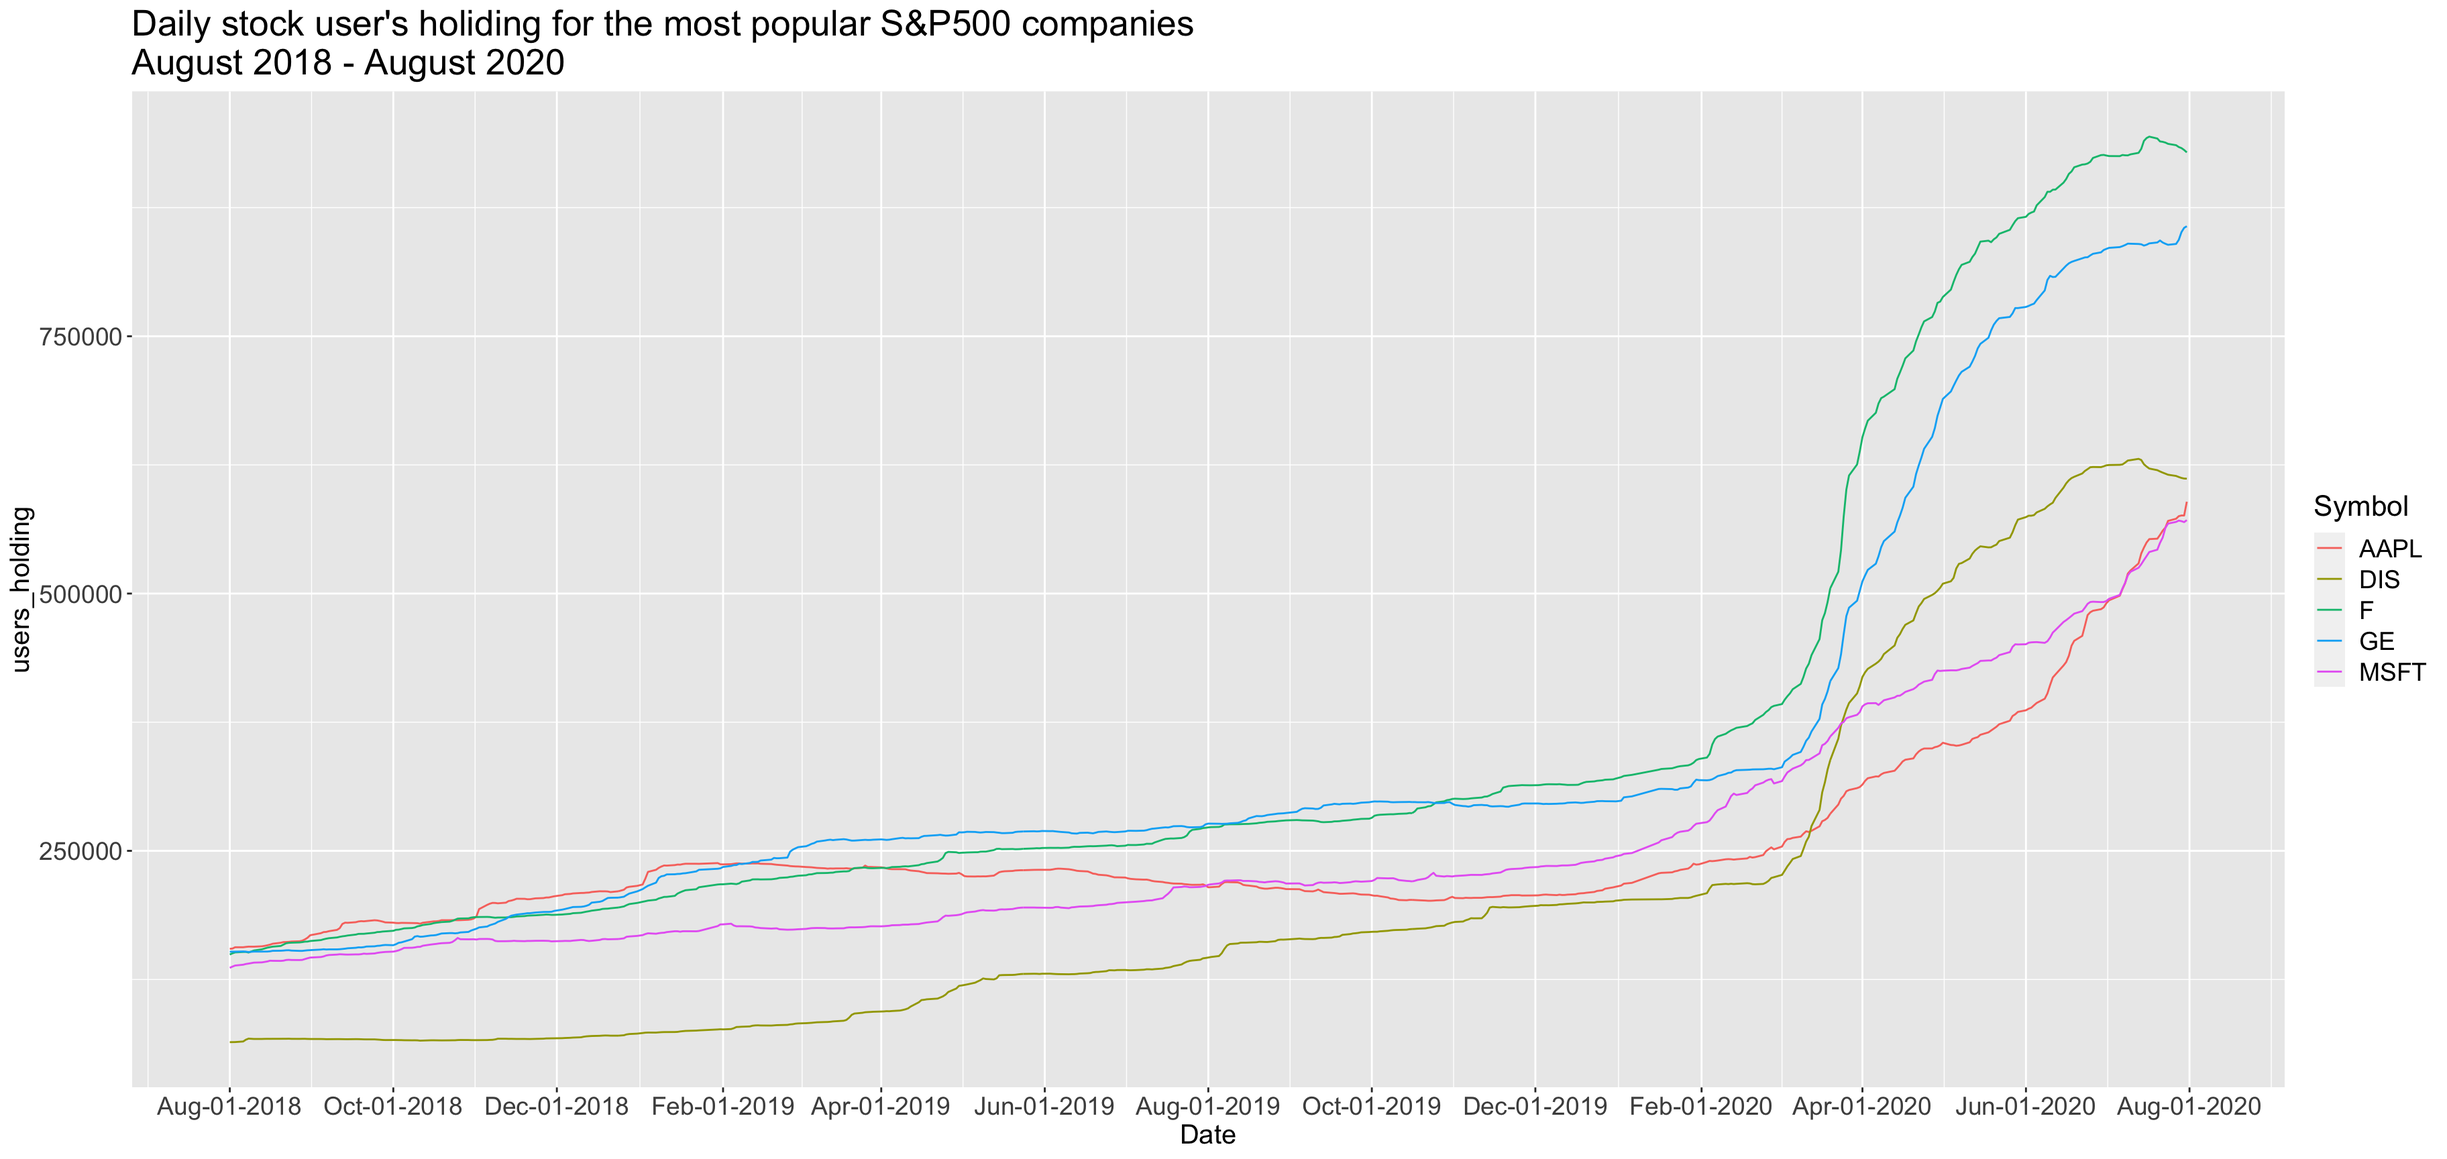
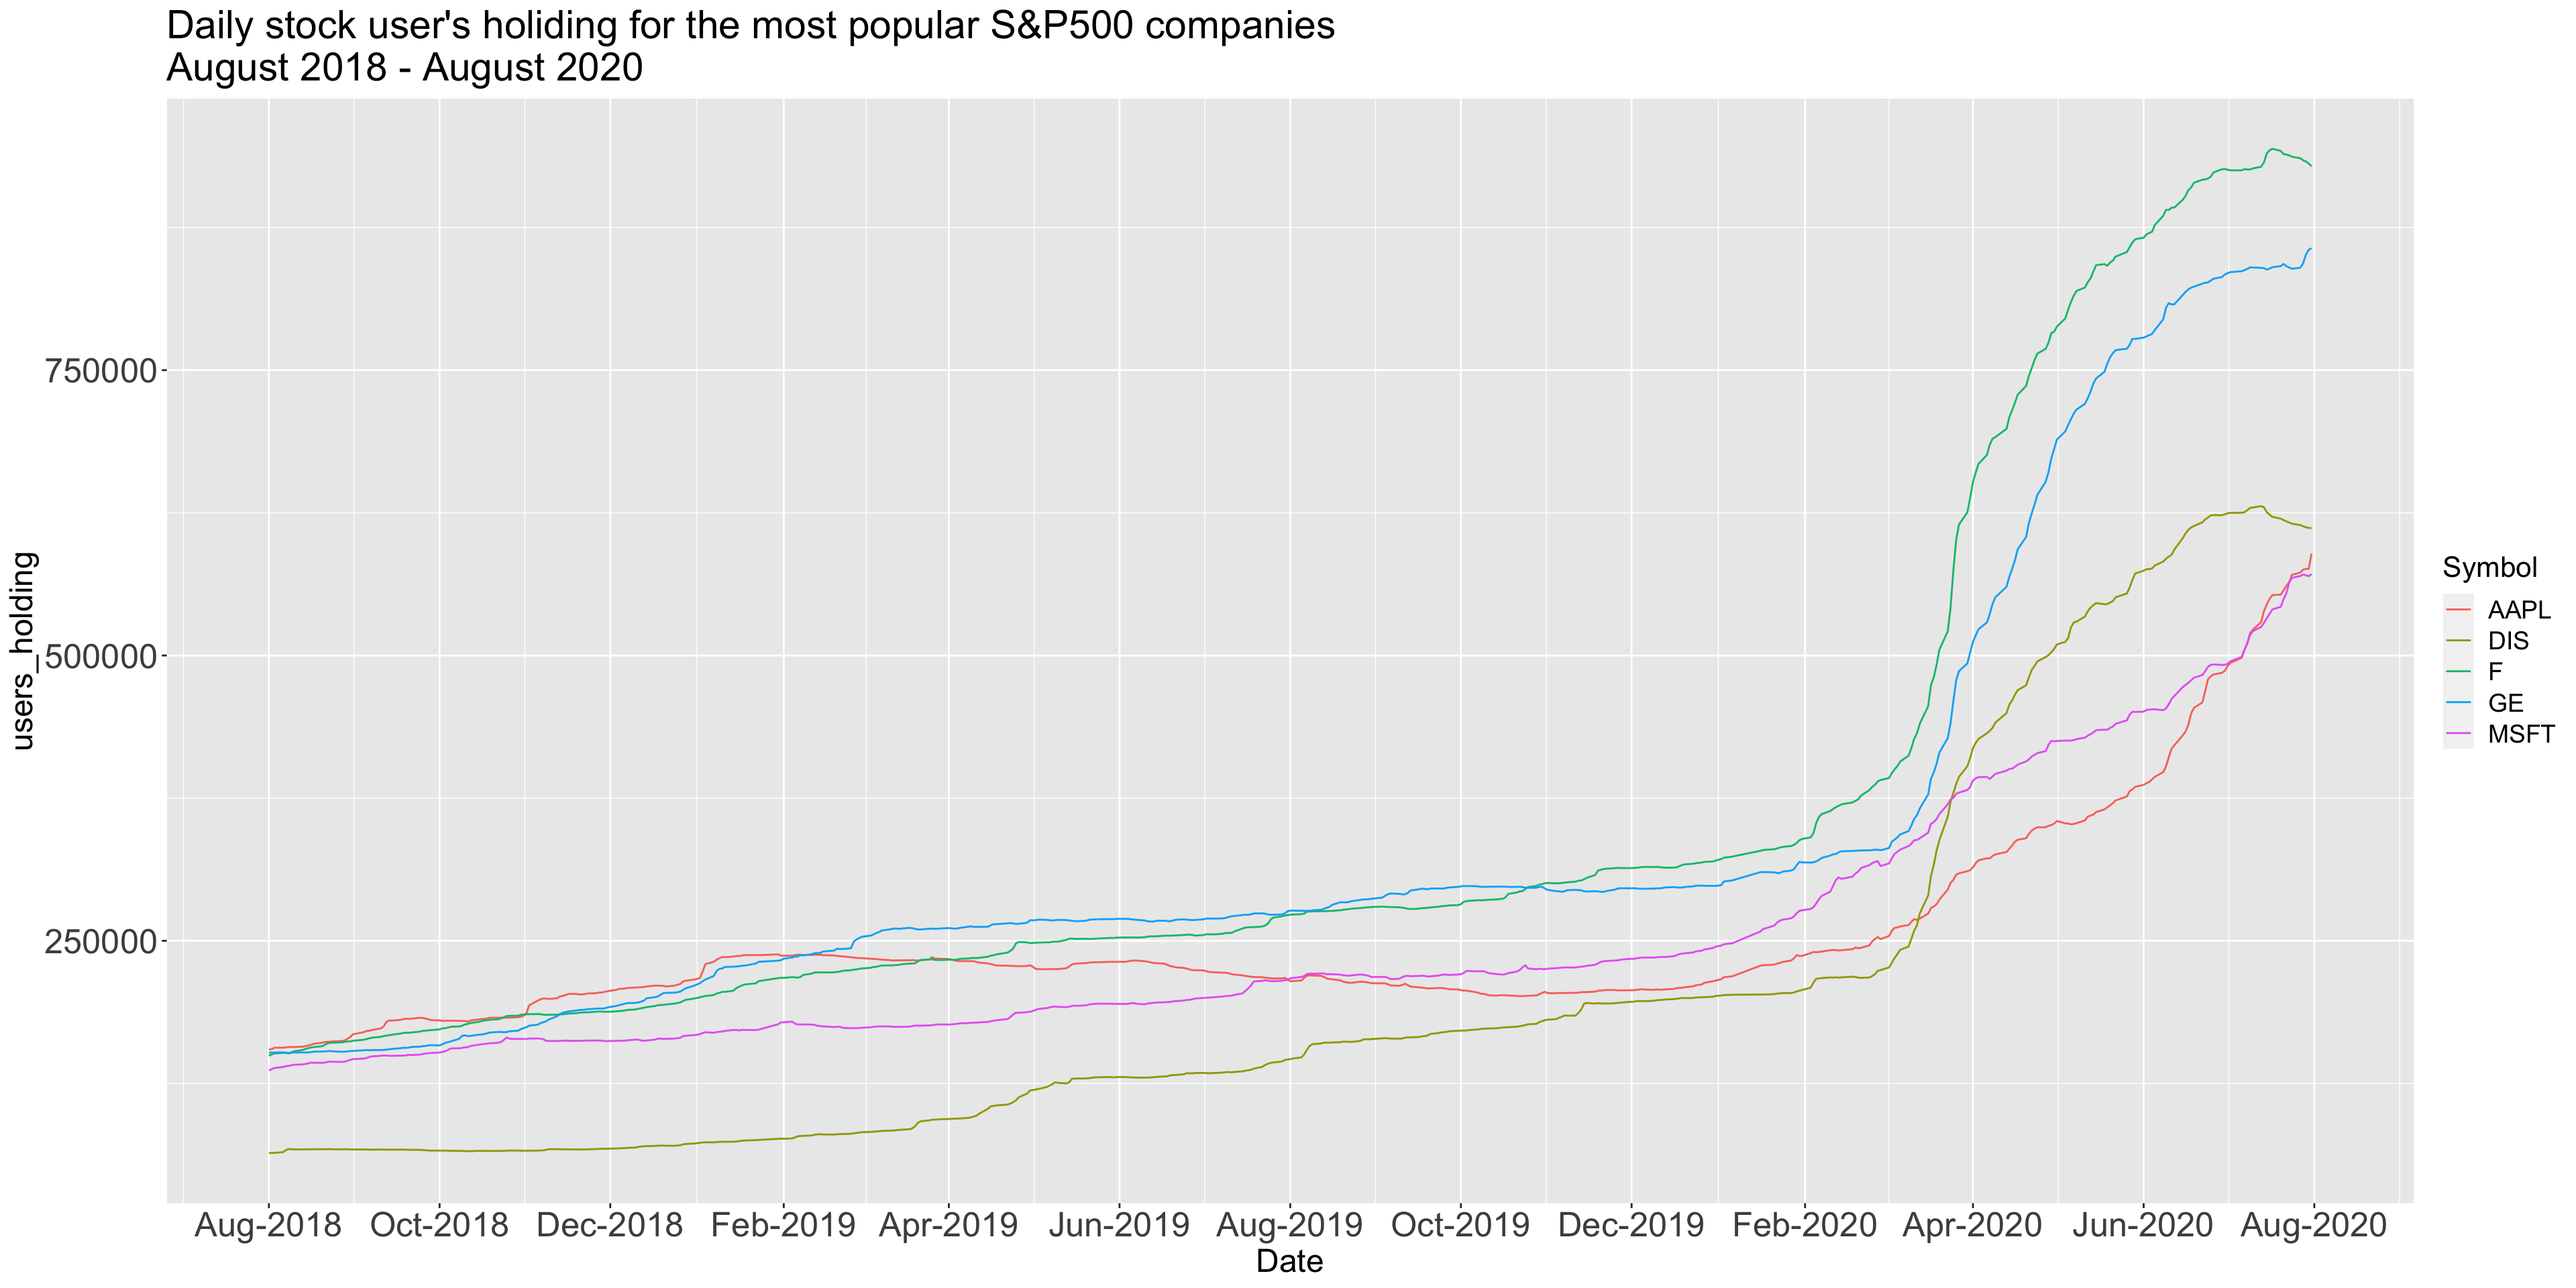
small changes to plot sizes

diff --git a/docs/results.html b/docs/results.html
@@ -113,10 +113,10 @@
 <p>###how ownership change by industry sectors over certain time period</p>
 <p><img src="finalproj_files/figure-html/qplot51-1.png" width="960" /></p>
 <p><img src="finalproj_files/figure-html/qplot56-1.png" width="576" /></p>
-<p><img src="finalproj_files/figure-html/qplot57-1.png" width="1824" /></p>
-<p><img src="finalproj_files/figure-html/qplot59-1.png" width="1824" /></p>
-<p><img src="finalproj_files/figure-html/qplot58-1.png" width="1824" /></p>
-<p><img src="finalproj_files/figure-html/qplot60-1.png" width="1152" /></p>
+<p><img src="finalproj_files/figure-html/qplot57-1.png" width="1920" /></p>
+<p><img src="finalproj_files/figure-html/qplot59-1.png" width="1920" /></p>
+<p><img src="finalproj_files/figure-html/qplot58-1.png" width="1920" /></p>
+<p><img src="finalproj_files/figure-html/qplot60-1.png" width="960" /></p>
 
 </div>
             </section>
